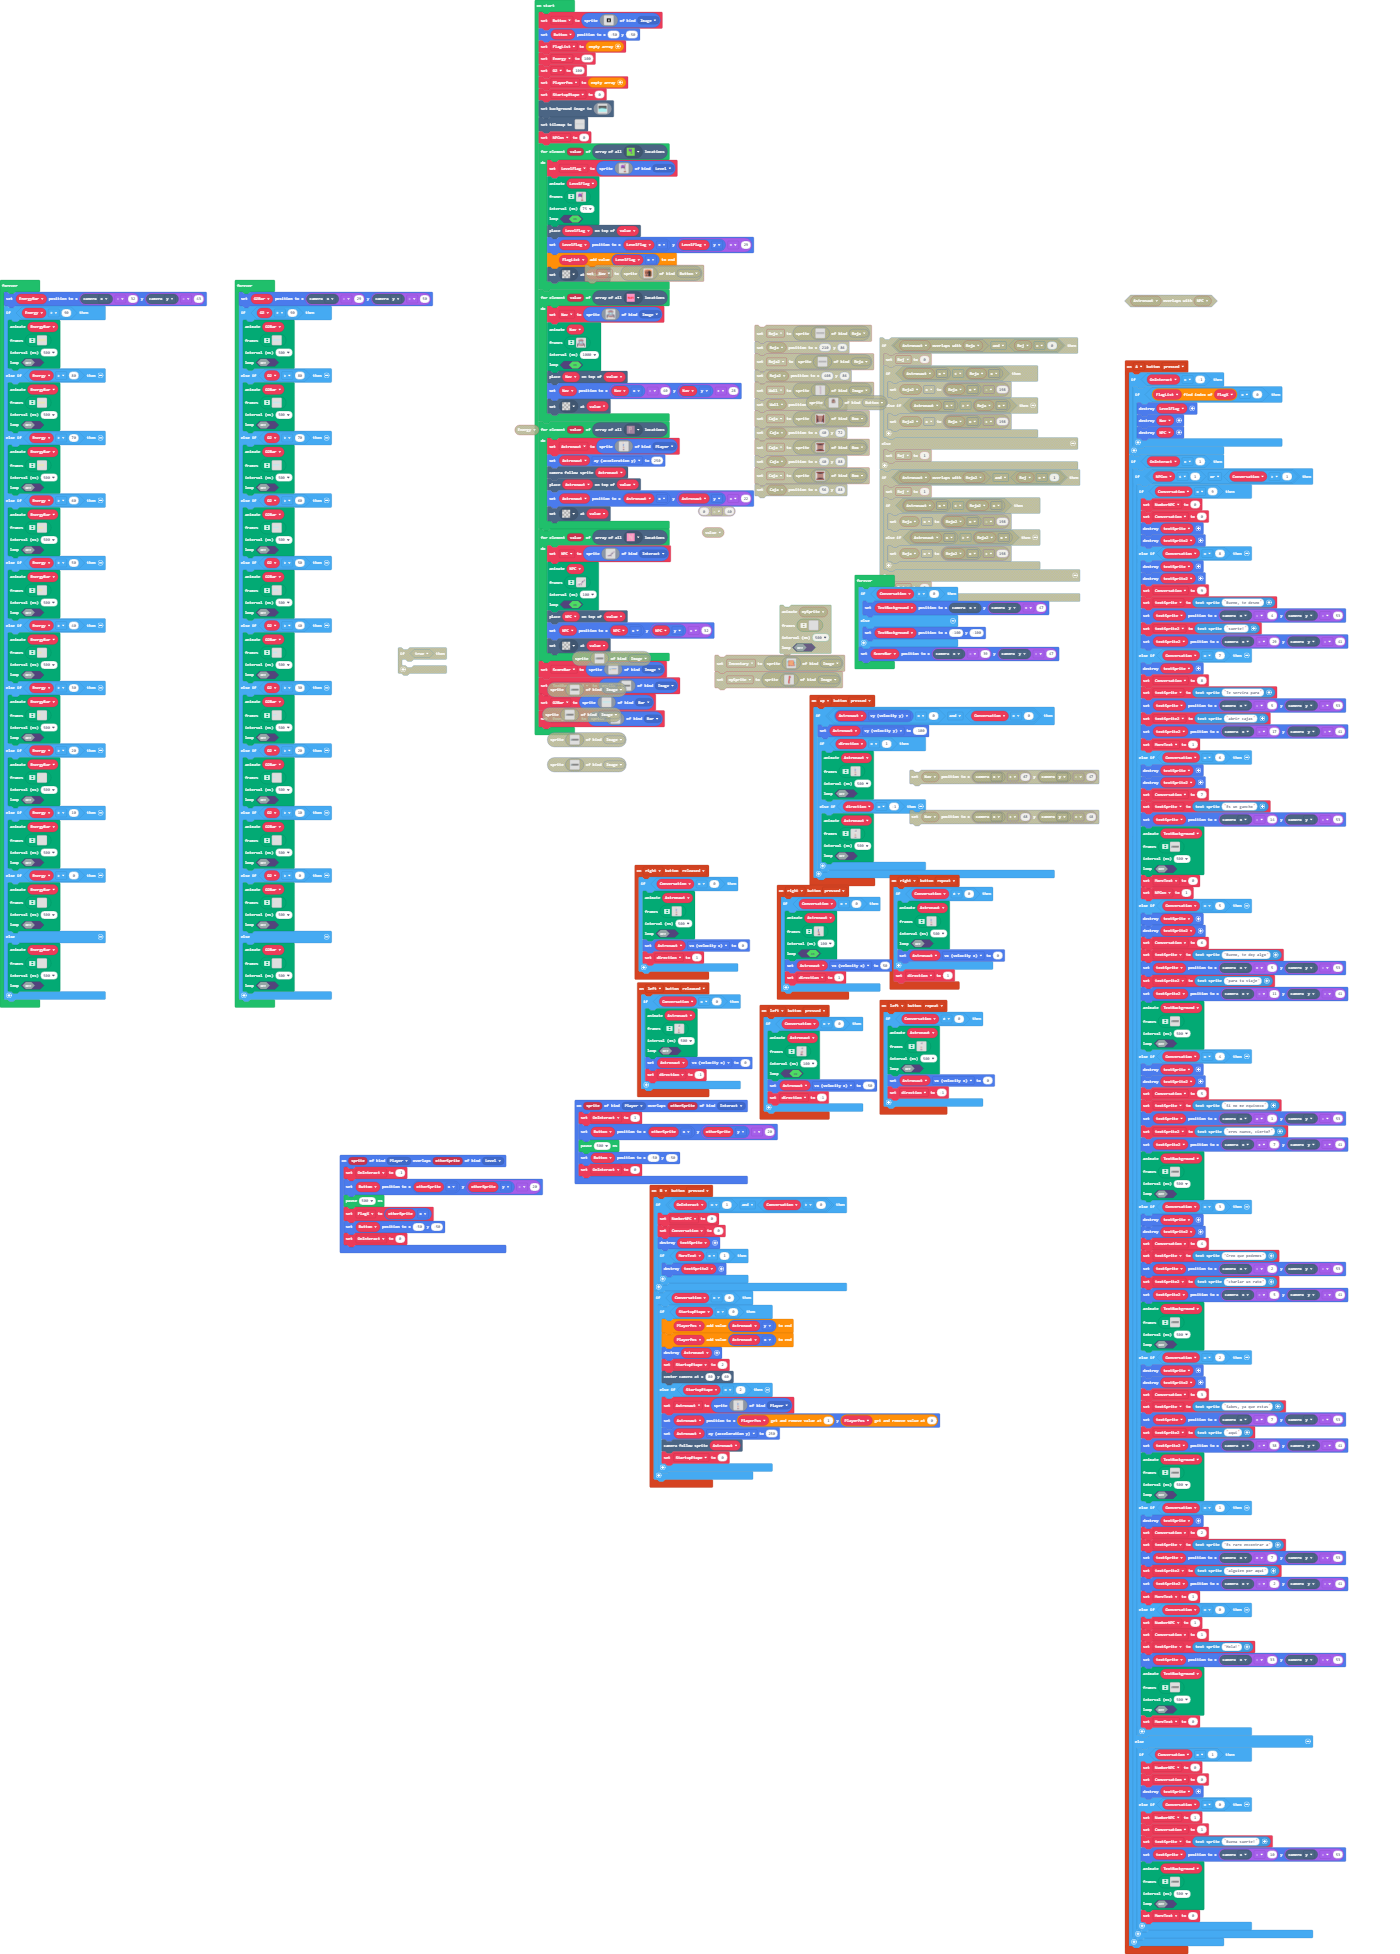
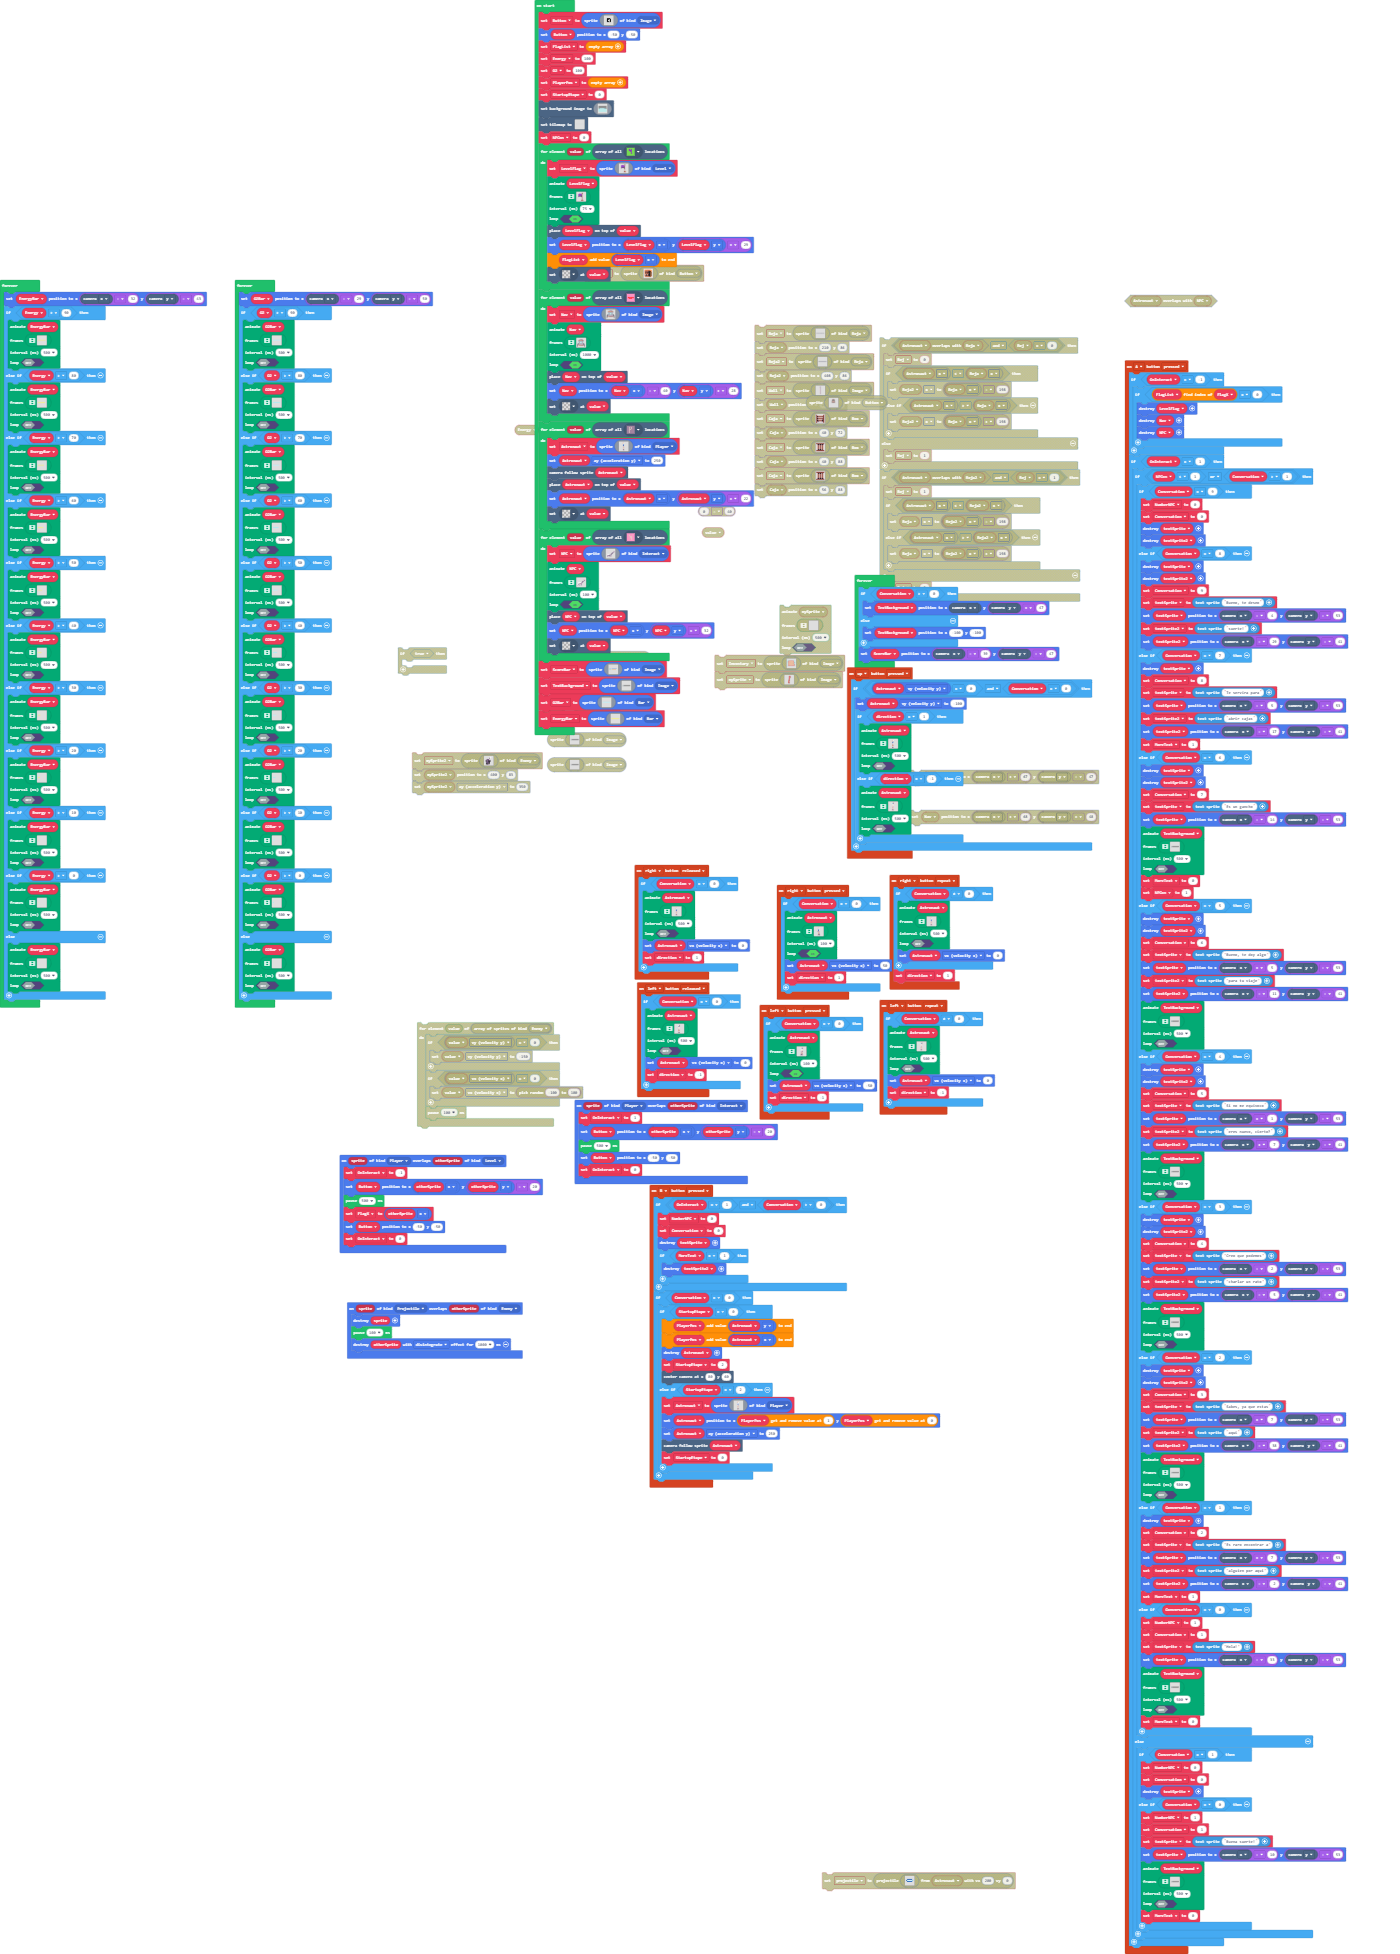
Version 1.0.3

diff --git a/main.ts b/main.ts
@@ -928,6 +928,11 @@ sprites.onOverlap(SpriteKind.Player, SpriteKind.Level, function (sprite, otherSp
     Button.setPosition(-50, -50)
     OnInteract = 0
 })
+sprites.onOverlap(SpriteKind.Projectile, SpriteKind.Enemy, function (sprite, otherSprite) {
+    sprite.destroy()
+    pause(100)
+    otherSprite.destroy(effects.disintegrate, 1000)
+})
 controller.left.onEvent(ControllerButtonEvent.Repeated, function () {
     if (Conversation != 0) {
         animation.runImageAnimation(
